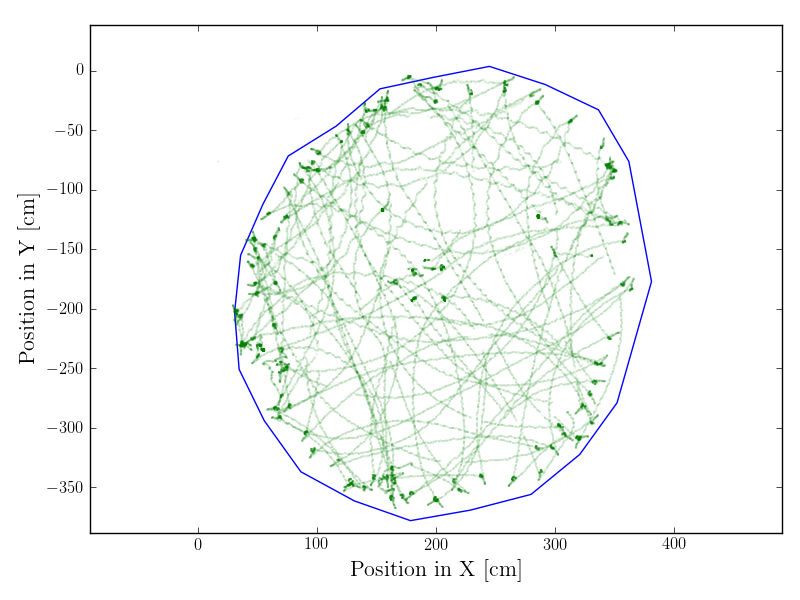
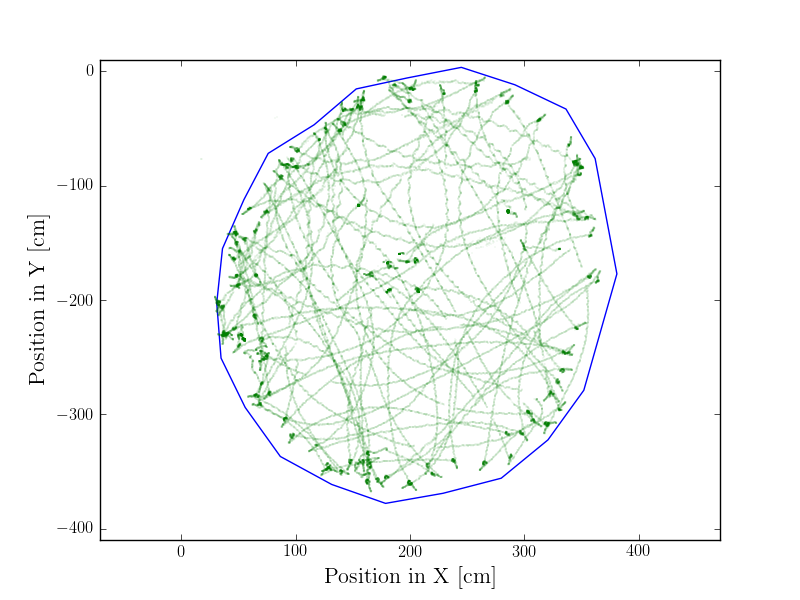
Added map walls to plots

Changed region(s): [[0.0312, 0.03, 1.0, 0.99]]

diff --git a/Software/MarkerTracker/PerspectiveCorrection/experiments/GNBotSearch2014/plot_results.py b/Software/MarkerTracker/PerspectiveCorrection/experiments/GNBotSearch2014/plot_results.py
@@ -16,7 +16,7 @@ rc('text',usetex=True)
 rc('font',**{'family':'serif','serif':['Computer Modern']})
 
 
-data_file_name = "2014-09-25-193626"
+data_file_name = "2014-09-25-191650"
 data = loadFromFile("",data_file_name+"_posLog_raw.p")
 
 ts = data['videoTimestamp']
